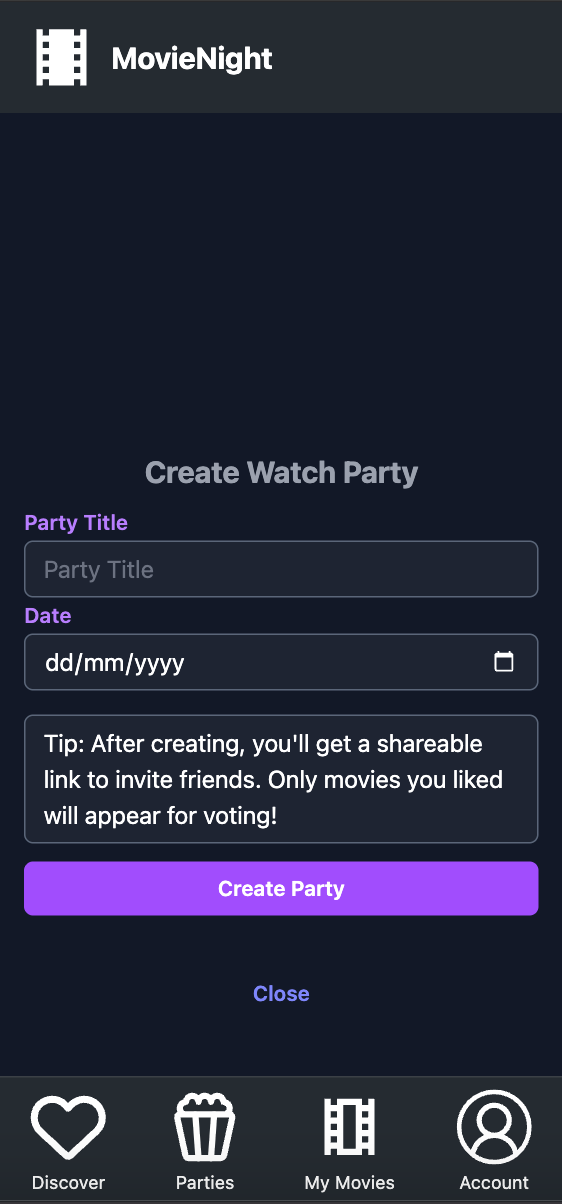
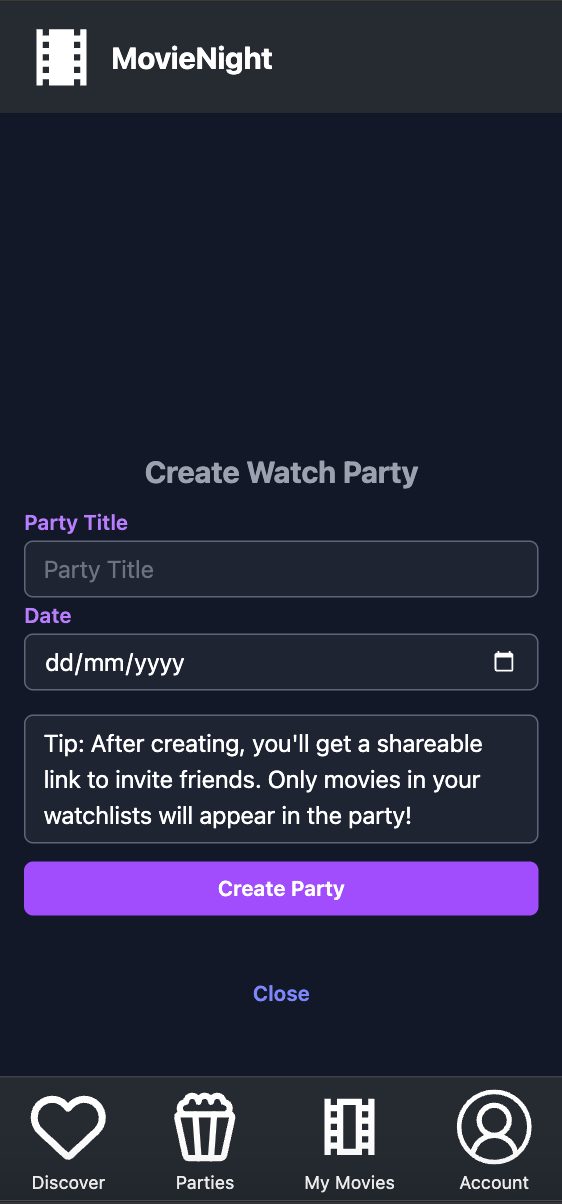
amended the tip messaging in party create and party edit

Changed region(s): [[0.121, 0.6453, 0.5142, 0.7068], [0.5445, 0.6453, 0.726, 0.7068], [0.726, 0.6453, 0.8772, 0.6761]]

diff --git a/src/components/PartyUpdate/PartyUpdate.jsx b/src/components/PartyUpdate/PartyUpdate.jsx
@@ -74,7 +74,7 @@ return (
           <input className="block w-full border border-slate-600 rounded-md bg-white/5 px-3 py-1.5 text-base text-white outline-1 -outline-offset-1 outline-white/10 placeholder:text-gray-500 focus:outline-2 focus:-outline-offset-2 focus:outline-indigo-500 sm:text-sm/6" type='date' name="date" id="date" placeholder="Date" required value={formData.date} onChange={handleChange}></input>
           { errorData?.text && <p className='error-message'>{errorData.date}</p>}
         </div>
-        <p className="block w-full border border-slate-600 rounded-md bg-white/5 px-3 py-1.5 text-base text-white outline-1 -outline-offset-1 outline-white/10 placeholder:text-gray-500 focus:outline-2 focus:-outline-offset-2 focus:outline-indigo-500 sm:text-sm/6 mt-4">Tip: After creating, you'll get a shareable link to invite friends. Only movies you liked will appear for voting!</p>
+        <p className="block w-full border border-slate-600 rounded-md bg-white/5 px-3 py-1.5 text-base text-white outline-1 -outline-offset-1 outline-white/10 placeholder:text-gray-500 focus:outline-2 focus:-outline-offset-2 focus:outline-indigo-500 sm:text-sm/6 mt-4">Tip: The unique join link will remain the same. You don't have to reshare it with your friends. </p>
         <button type="submit" className="flex w-full justify-center rounded-md bg-purple-500 px-3 py-1.5 text-sm/6 font-semibold text-white hover:bg-indigo-400 focus-visible:outline-2 focus-visible:outline-offset-2 focus-visible:outline-indigo-500 mb-3 mt-3">Update Party</button>
         <p className="mt-10 text-center text-sm/6 text-gray-400"><Link className="font-semibold text-indigo-400 hover:text-indigo-300" to='/parties/'>Close</Link></p>
         { errorData?.message && <p className='error-message'>{errorData.message}</p>}

diff --git a/src/components/NewPartyCreate/NewPartyCreate.jsx b/src/components/NewPartyCreate/NewPartyCreate.jsx
@@ -101,7 +101,7 @@ const NewPartyCreate = () => {
             </div>
             <p className="block w-full border border-slate-600 rounded-md bg-white/5 px-3 py-1.5 text-base text-white outline-1 -outline-offset-1 outline-white/10 placeholder:text-gray-500 focus:outline-2 focus:-outline-offset-2 focus:outline-indigo-500 sm:text-sm/6 mt-4">
               Tip: After creating, you'll get a shareable link to invite
-              friends. Only movies you liked will appear for voting!
+              friends. Only movies in your watchlists will appear in the party!
             </p>
             <div>
               <button
